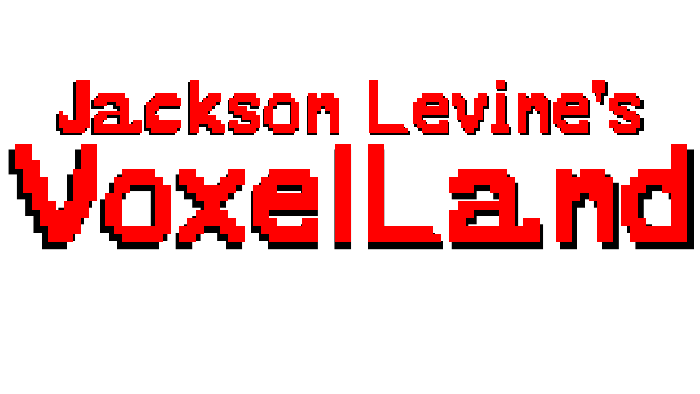
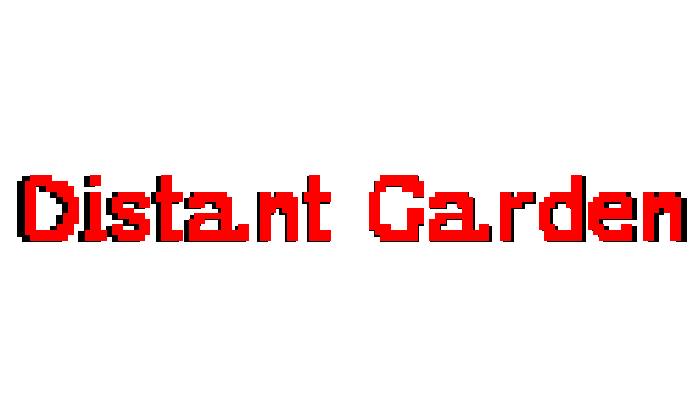
change the *name* of the *game*

Changed region(s): [[0.0, 0.1827, 1.0, 0.6396]]

diff --git a/binaries/client/src/main.rs b/binaries/client/src/main.rs
@@ -23,7 +23,7 @@ fn main() {
     tracing::subscriber::set_global_default(subscriber)
         .expect("setting default subscriber failed");
 
-    let mut wak_context = WindowAndKeyContext::new("Jackson Levine's VoxelLand", 1280, 720);
+    let mut wak_context = WindowAndKeyContext::new("Distant Garden", 1280, 720);
 
     unsafe {
         while !DECIDEDSPORMP {
